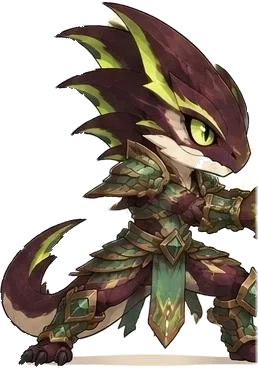
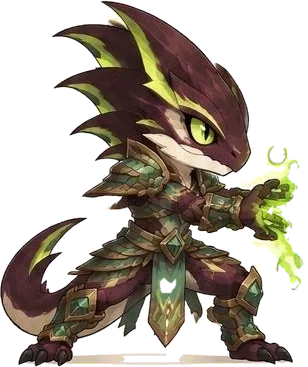
Realm: Vexis cast poses re-cut whole (body kept by shape, venom removed by color)
Claude-Session: https://claude.ai/code/session_01V1aEsn5B6Gnr4Ug8DBZ5Wk

diff --git a/realm-images.js b/realm-images.js
@@ -12,9 +12,9 @@ const RL_ART={
   // f: standing art for each form, with the same placement fields (w/ih = file size).
   // Vexis (basilisk, chibi). LEGENDARY. Frames per form are [Venom Fang, Twin Toxin Crescents, Caustic Mireburst].
   bas:{zoom:.42,eyeY:100,f:[{src:'art/bas-1.webp',ax:249,ay:654,h:648,w:467,ih:652,ht:3,cx:285,fy:230},{src:'art/bas-2.webp',ax:250,ay:668,h:648,w:488,ih:666,ht:3,cx:290,fy:240},{src:'art/bas-3.webp',ax:285,ay:701,h:648,w:539,ih:699,ht:1,cx:330,fy:270}],pose:'skill',
-        c:[[{src:'art/bas-1c1.webp',ax:184,ay:375,h:385,w:368,ih:376,ht:2},{src:'art/bas-1c2.webp',ax:156,ay:391,h:385,w:317,ih:391,ht:3},{src:'art/bas-1c3.webp',ax:277,ay:353,h:385,w:294,ih:352,ht:1}],
-           [{src:'art/bas-2c1.webp',ax:172,ay:385,h:385,w:340,ih:386,ht:2},{src:'art/bas-2c2.webp',ax:158,ay:393,h:385,w:315,ih:393,ht:0},{src:'art/bas-2c3.webp',ax:147,ay:363,h:385,w:266,ih:362,ht:2}],
-           [{src:'art/bas-3c1.webp',ax:200,ay:392,h:385,w:374,ih:393,ht:2},{src:'art/bas-3c2.webp',ax:162,ay:398,h:385,w:316,ih:397,ht:2},{src:'art/bas-3c3.webp',ax:239,ay:369,h:385,w:258,ih:368,ht:2}]],
+        c:[[{src:'art/bas-1c1.webp',ax:184,ay:374,h:385,w:419,ih:375,ht:0},{src:'art/bas-1c2.webp',ax:155,ay:391,h:385,w:413,ih:391,ht:0},{src:'art/bas-1c3.webp',ax:160,ay:352,h:385,w:350,ih:352,ht:0}],
+           [{src:'art/bas-2c1.webp',ax:170,ay:384,h:385,w:405,ih:383,ht:0},{src:'art/bas-2c2.webp',ax:159,ay:393,h:385,w:422,ih:393,ht:0},{src:'art/bas-2c3.webp',ax:147,ay:362,h:385,w:322,ih:361,ht:0}],
+           [{src:'art/bas-3c1.webp',ax:200,ay:390,h:385,w:453,ih:394,ht:0},{src:'art/bas-3c2.webp',ax:162,ay:397,h:385,w:439,ih:396,ht:0},{src:'art/bas-3c3.webp',ax:155,ay:368,h:385,w:308,ih:367,ht:0}]],
         spell:[{vp:['#ffffff','#eaffb0','#b6e83a','#4a1a2e'],hand:[175,150],bySkill:[{shot:'art/fx-bas-fang1.webp',sz:.75},{shot:'art/fx-bas-cres1.webp',sz:.55},{burst:'art/fx-bas-mire1.webp',aoe:'erupt',sz:.65}]},
                {vp:['#ffffff','#eaffb0','#b6e83a','#4a1a2e'],hand:[175,150],bySkill:[{shot:'art/fx-bas-fang2.webp',sz:.75},{shot:'art/fx-bas-cres2.webp',sz:.55},{burst:'art/fx-bas-mire2.webp',aoe:'erupt',sz:.65}]},
                {vp:['#ffffff','#eaffb0','#b6e83a','#4a1a2e'],hand:[175,150],bySkill:[{shot:'art/fx-bas-fang3.webp',sz:.75},{shot:'art/fx-bas-cres3.webp',sz:.55},{burst:'art/fx-bas-mire3.webp',aoe:'erupt',sz:.65}]}]},
